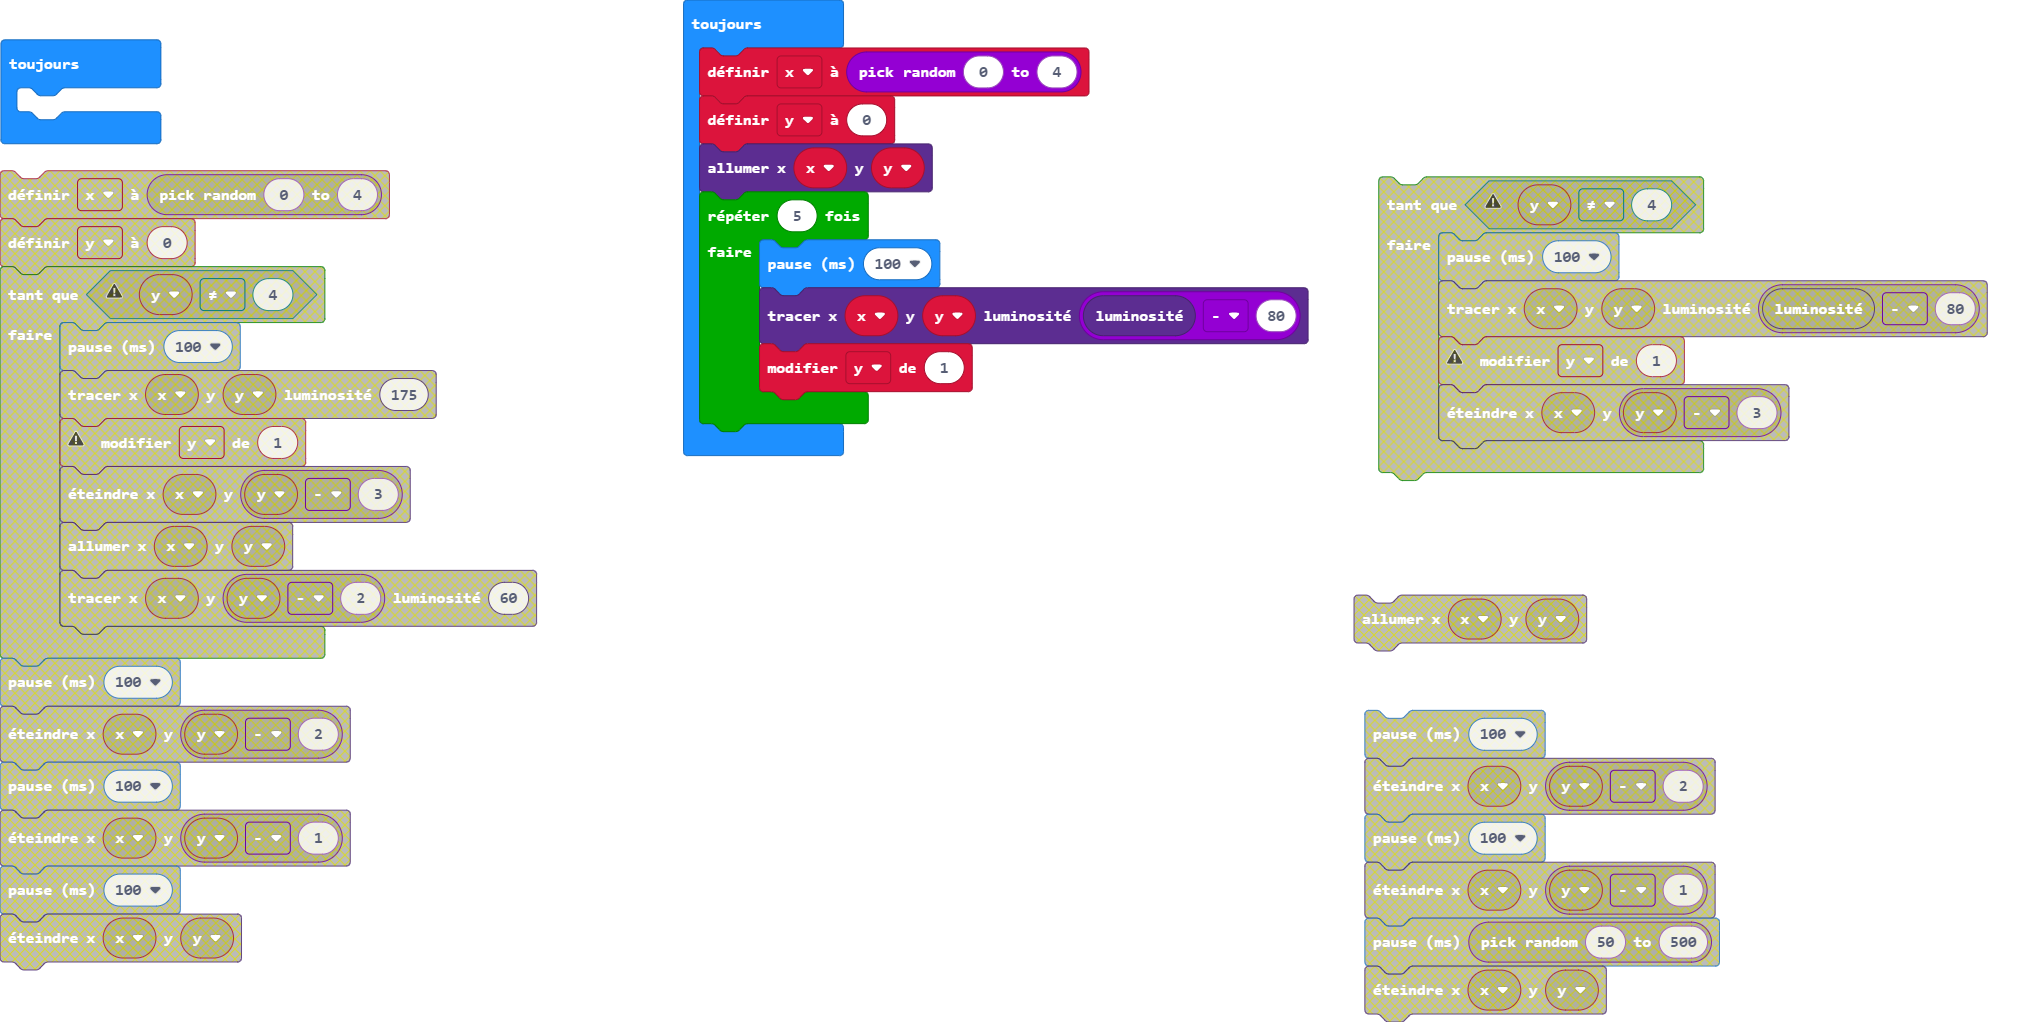
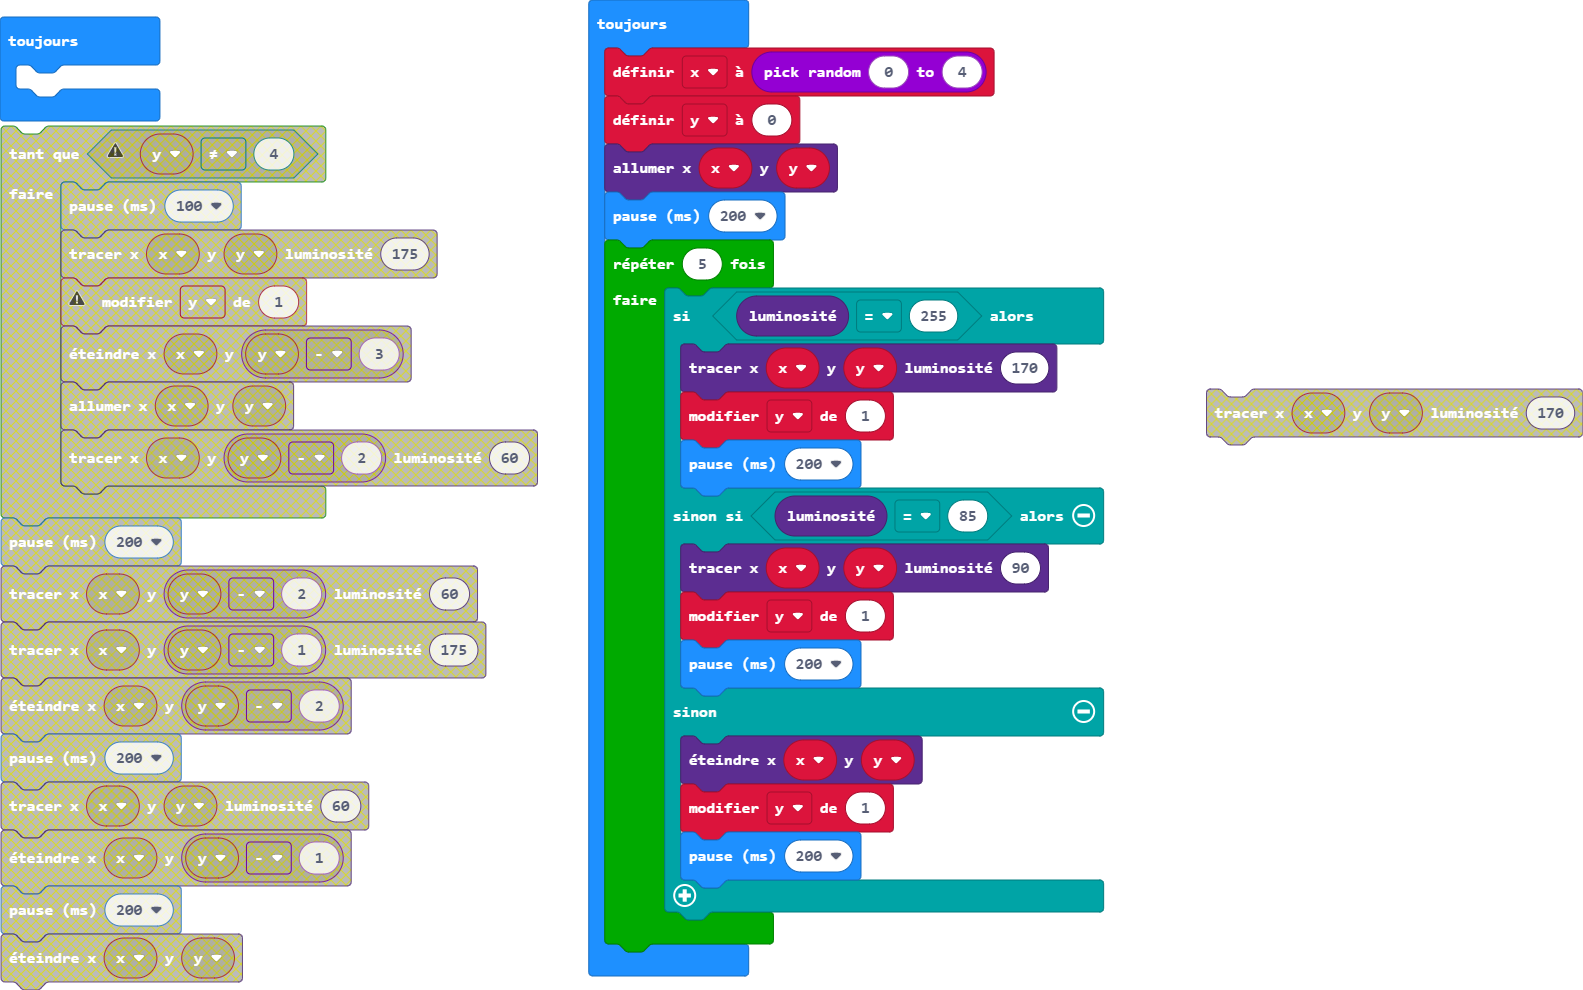
Mise à jour main.blocks, main.ts

diff --git a/main.ts b/main.ts
@@ -1,15 +1,26 @@
 let x = 0
 let y = 0
 basic.forever(function () {
+	
+})
+basic.forever(function () {
     x = randint(0, 4)
     y = 0
     led.plot(x, y)
+    basic.pause(200)
     for (let index = 0; index < 5; index++) {
-        basic.pause(100)
-        led.plotBrightness(x, y, led.brightness() - 80)
-        y += 1
+        if (led.brightness() == 255) {
+            led.plotBrightness(x, y, 170)
+            y += 1
+            basic.pause(200)
+        } else if (led.brightness() == 85) {
+            led.plotBrightness(x, y, 90)
+            y += 1
+            basic.pause(200)
+        } else {
+            led.unplot(x, y)
+            y += 1
+            basic.pause(200)
+        }
     }
-})
-basic.forever(function () {
-	
 })
